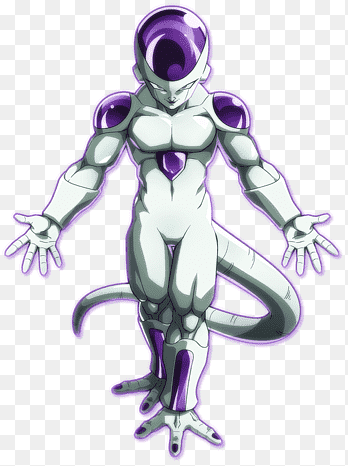
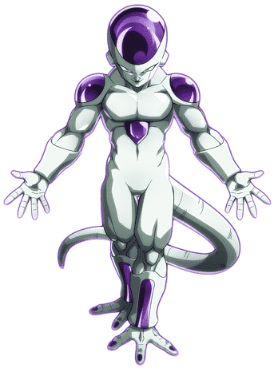
Actualización de imagenes de razas de Dragon Ball. Escalado de imagenes de razas de Dragon Ball.

diff --git a/Memorama.java b/Memorama.java
@@ -10,21 +10,20 @@ import java.util.HashMap;
 public class Memorama extends JFrame{
     private JTextArea puntosJugadores, cartasVolteadas;
     private ArrayList<JButton> tarjetas;
-    private int numJugadores, puntosMaximos, turno;
+    private int numJugadores, turno;
     private String figura;
     private ArrayList<JButton> tarjetasVolteadas;
     private HashMap<Integer, Integer> jugadores;
     private int[] cartasVolteadasConteo = new int[4];
-    private int jugadores, puntosMaximos, contadorCartasAdivinadas;
+    private int contadorCartasAdivinadas;
     private HashMap<Integer,Integer> numCartasVolteadas;
     private boolean bloqueo = false;
     private JButton salir;
 
-    public Memorama(int numJugadores, int puntuacionMaxima, String figura) {
+    public Memorama(int numJugadores, String figura) {
         super("Memorama");
         tarjetas = new ArrayList<>();
         this.numJugadores = numJugadores;
-        this.puntosMaximos = puntuacionMaxima;
         this.figura = figura;
         this.setLocationRelativeTo(null);
         numCartasVolteadas = new HashMap<>();
@@ -33,18 +32,16 @@ public class Memorama extends JFrame{
         inicializarJugadores();
         inicializarComponentes();
         configurarVentana();
+        setLocationRelativeTo(null);
         puntosJugadores.setText(getPuntajes());
         cartasVolteadas.setText(getCartasVolteadas());
-        setLocationRelativeTo(null);
         turno = 1;
+        contadorCartasAdivinadas = 0;
         mostrarTurno();
-   
-        inicializarComponentes();
-        configurarVentana();
-        setLocationRelativeTo(null);
     }
+    
     public void cambiarTurno(){
-        turno = (turno%jugadores)+1;
+        turno = (turno%numJugadores)+1;
     }
     public void inicializarComponentes(){
         puntosJugadores = new JTextArea(20,20);
@@ -67,7 +64,7 @@ public class Memorama extends JFrame{
             b.setEnabled(true);
             tarjetas.add(b);
         }
-        for (int i = 1; i<= jugadores; i++){
+        for (int i = 1; i<= numJugadores; i++){
             numCartasVolteadas.put(i,0);
         }
         System.out.println(tarjetas.size());
@@ -82,7 +79,7 @@ public class Memorama extends JFrame{
     }
     public String puntajesToString(){
         String mensajePuntajes = "";
-        for (int i=1; i<= jugadores; i++){
+        for (int i=1; i<= numJugadores; i++){
             mensajePuntajes += "Jugador "+ (i) + ": " + numCartasVolteadas.get(i)+"\n";
         }
         return mensajePuntajes;
@@ -167,7 +164,7 @@ public class Memorama extends JFrame{
             case "Raza de Dragon Ball":
                 String[] razas = {"Angel","Buu","DemonioDelFrio","Dios","Humano","Kaio","Namek","Saiyan"};
                 String[] nombresPersonajes = {"Vados","Whis","Gordo","Kid","Freezer","KingCold","Bills","Champa","Krillin","Yamcha",
-                "Gordo","Shin","Dende","Picollo","Goku","Vegeta"};
+                        "Gordo","Shin","Dende","Picollo","Goku","Vegeta"};
                 int count = 0;
                 for (String raza: razas){
                     cartas.add(new RazaDeDragonBall(raza,nombresPersonajes[count]));

diff --git a/Main.java b/Main.java
@@ -16,7 +16,7 @@ public class Main {
         ventana.setVisible(true);
 
         // imagen
-        ImageIcon pic = new ImageIcon("C:\\Users\\RedBo\\OneDrive\\Escritorio\\POO\\Practica7\\ImageMain.png");
+        ImageIcon pic = new ImageIcon("C:\\Users\\joser\\IdeaProjects\\Practica 7\\ImageMain.png");
         JLabel image = new JLabel(pic);
         image.setBounds(0,0,500,500);
         ventana.setContentPane(image);
@@ -116,8 +116,8 @@ public class Main {
                             "Jugadores",
                             JOptionPane.QUESTION_MESSAGE);
                     numJugadores = Integer.parseInt(numJugadoresStr);
-                    Object[] botones = {"5", "10","25", "Todos"};
-                    int modalidadOpcion = JOptionPane.showOptionDialog(ventana,
+                    Object[] botones = {"Bandera", "Numero", "Raza de Dragon Ball"};
+                    int figuraMemorama = JOptionPane.showOptionDialog(ventana,
                             "Elige modalidad",
                             "Modalidad",
                             JOptionPane.DEFAULT_OPTION,
@@ -125,27 +125,6 @@ public class Main {
                             null,
                             botones,
                             botones[0]);
-                    int puntuacionMaxima = 0;
-                    switch (modalidadOpcion) {
-                        case 0:
-                            puntuacionMaxima = 5;
-                            break;
-                        case 1:
-                            puntuacionMaxima = 10;
-                            break;
-                        case 2:
-                            puntuacionMaxima = 25;
-                            break;
-                    }
-                    Object[] botones2 = {"Bandera", "Numero", "Raza de Dragon Ball"};
-                    int figuraMemorama = JOptionPane.showOptionDialog(ventana,
-                            "Elige modalidad",
-                            "Modalidad",
-                            JOptionPane.DEFAULT_OPTION,
-                            JOptionPane.QUESTION_MESSAGE,
-                            null,
-                            botones2,
-                            botones2[0]);
                     String figura = "";
                     switch (figuraMemorama) {
                         case 0:
@@ -158,7 +137,7 @@ public class Main {
                             figura = "Raza de Dragon Ball";
                             break;
                     }
-                    Memorama juego = new Memorama(numJugadores, puntuacionMaxima, figura);
+                    Memorama juego = new Memorama(numJugadores, figura);
                 }
             }
         });

diff --git a/Carta/RazaDeDragonBall.java b/Carta/RazaDeDragonBall.java
@@ -1,6 +1,7 @@
 package Carta;
 
 import javax.swing.*;
+import java.awt.*;
 
 public class RazaDeDragonBall extends Carta {
     private String raza,nombre;
@@ -15,6 +16,11 @@ public class RazaDeDragonBall extends Carta {
     }
     @Override
     public Icon obtenerIcono(){
-        return new ImageIcon("C:\\Users\\RedBo\\OneDrive\\Escritorio\\POO\\Practica7\\RazaDragonBall\\"+raza+nombre+".png");
+        ImageIcon imagenDB = new ImageIcon("C:\\Users\\joser\\IdeaProjects\\Practica 7\\RazaDragonBall\\"+raza+nombre+".png");
+        Image imagen = imagenDB.getImage();
+        int alturaNueva = 150;
+        int anchoNuevo = 150;
+        Image imagenEscalada = imagen.getScaledInstance(alturaNueva, anchoNuevo, Image.SCALE_SMOOTH);
+        return new ImageIcon(imagenEscalada);
     }
 }

diff --git a/Carta/Bandera.java b/Carta/Bandera.java
@@ -19,9 +19,9 @@ public class Bandera extends Carta {
     @Override
     public Icon obtenerIcono(){
         if (esBandera) {
-            return new ImageIcon("C:\\Users\\RedBo\\OneDrive\\Escritorio\\POO\\Practica7\\Banderas\\" + bandera + ".png");
+            return new ImageIcon("C:\\Users\\joser\\IdeaProjects\\Practica 7\\Banderas\\" + bandera + ".png");
         }else{
-            return new ImageIcon("C:\\Users\\RedBo\\OneDrive\\Escritorio\\POO\\Practica7\\Banderas\\" + bandera + "Escudo.png");
+            return new ImageIcon("C:\\Users\\joser\\IdeaProjects\\Practica 7\\Banderas\\" + bandera + "Escudo.png");
         }
     }
 }

diff --git a/Carta/Numero.java b/Carta/Numero.java
@@ -29,6 +29,6 @@ public class Numero extends Carta {
     }
     @Override
     public Icon obtenerIcono(){
-        return new ImageIcon("C:\\Users\\RedBo\\OneDrive\\Escritorio\\POO\\Practica7\\Numeros\\num"+numero+".png");
+        return new ImageIcon("C:\\Users\\joser\\IdeaProjects\\Practica 7\\Numeros\\num"+numero+".png");
     }
 }
